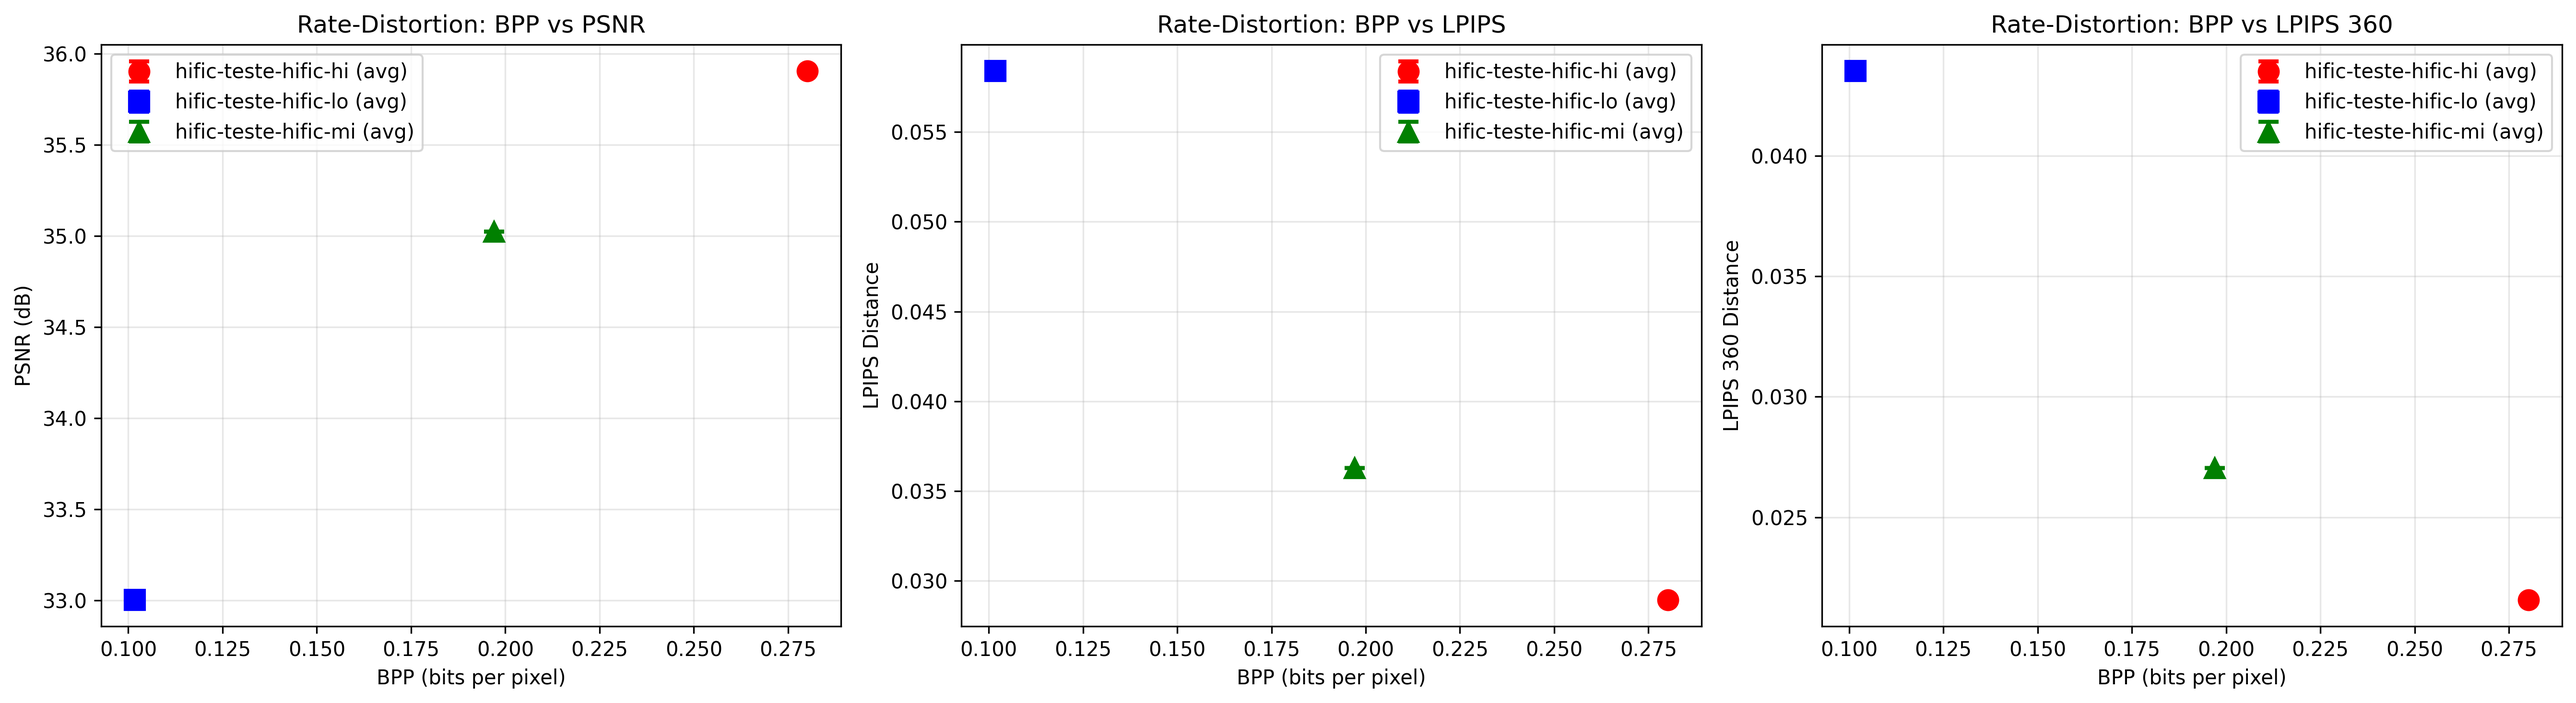
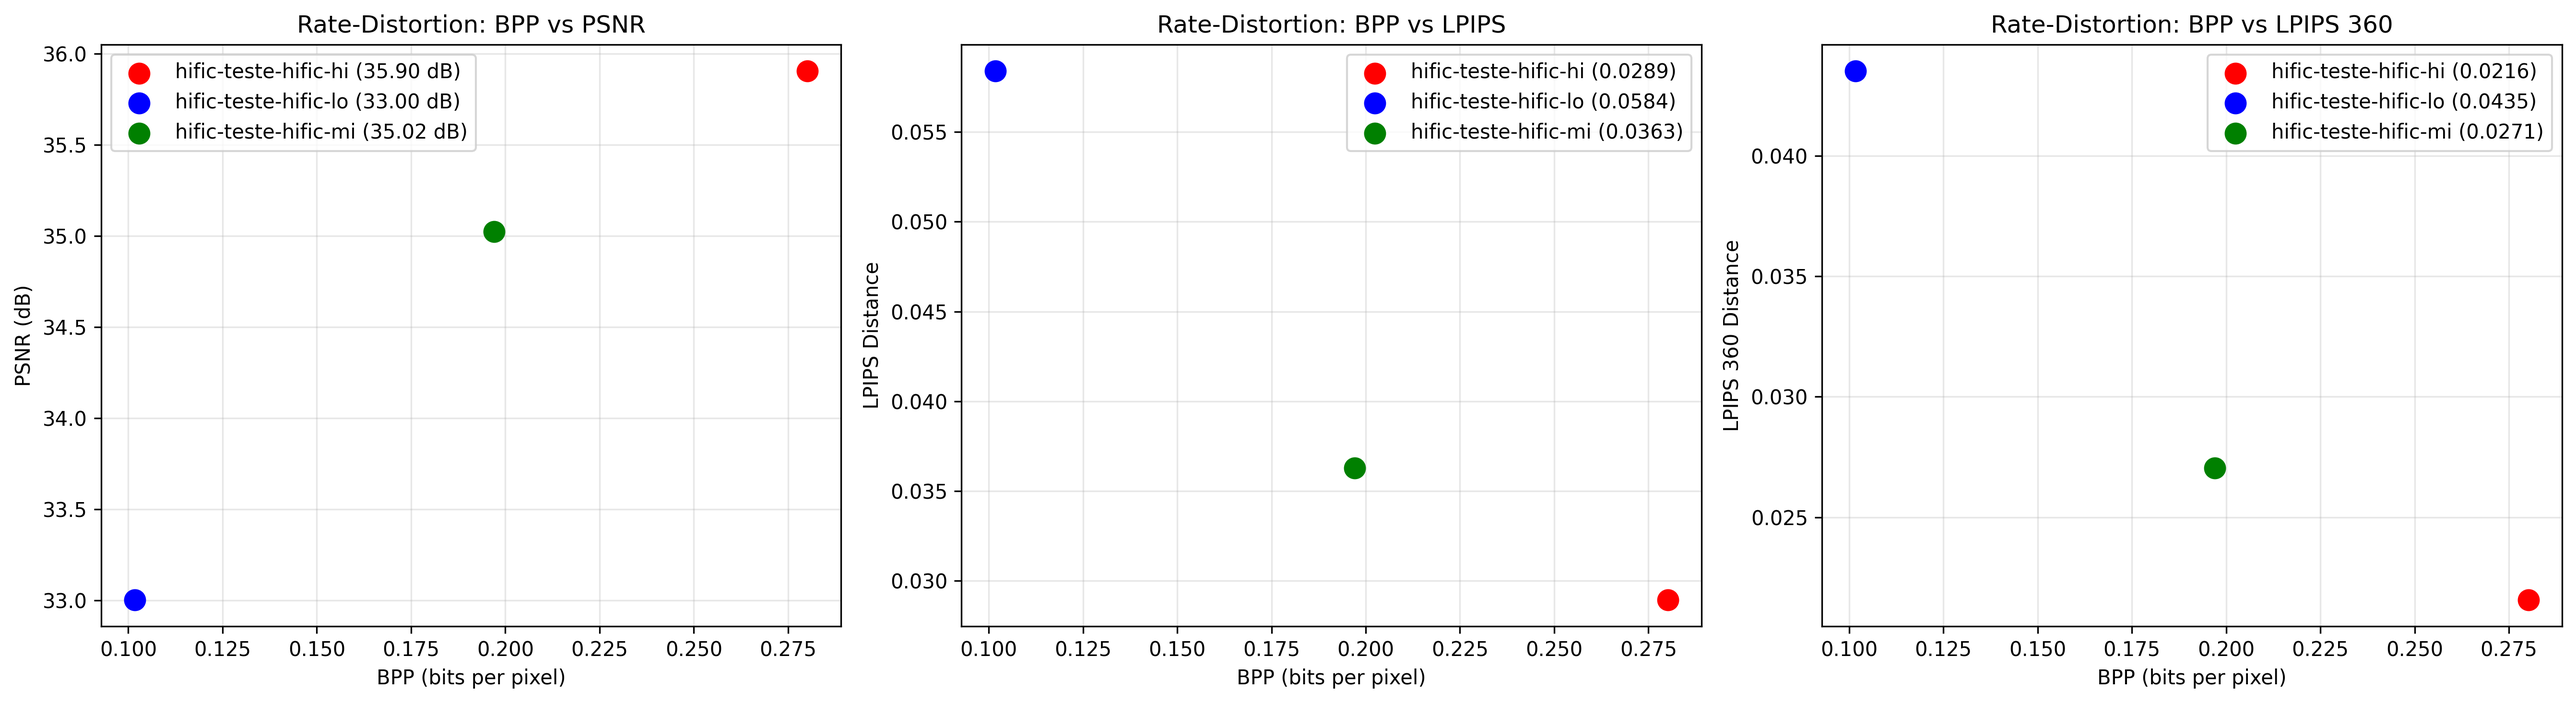
ajustes nos graficos

diff --git a/HiFiC360/models/compression_analysis.py b/HiFiC360/models/compression_analysis.py
@@ -154,7 +154,7 @@ class LPIPSCalculator:
         try:
             # Força CPU se use_gpu=False, ou detecta GPU se use_gpu=True
             if not self.use_gpu:
-                print("💻 Forçando uso de CPU...")
+                print("Forçando uso de CPU...")
                 # Desabilita completamente a GPU
                 import os
                 os.environ['CUDA_VISIBLE_DEVICES'] = ''
@@ -168,14 +168,14 @@ class LPIPSCalculator:
                 actual_use_gpu = gpu_available
                 
                 if actual_use_gpu:
-                    print("🚀 Inicializando LPIPS com GPU...")
+                    print("Inicializando LPIPS com GPU...")
                     # Configuração otimizada para GPU
                     config = tf.ConfigProto()
                     config.gpu_options.allow_growth = True
                     config.gpu_options.per_process_gpu_memory_fraction = 0.7
                     config.allow_soft_placement = True
                 else:
-                    print("💻 GPU não disponível, usando CPU...")
+                    print("GPU não disponível, usando CPU...")
                     # Configuração para CPU
                     config = tf.ConfigProto()
                     config.allow_soft_placement = True
@@ -198,14 +198,14 @@ class LPIPSCalculator:
             self._initialized = True
             self.use_gpu = actual_use_gpu  # Atualiza o estado real
             device_type = "GPU" if actual_use_gpu else "CPU"
-            print(f"✅ LPIPS inicializado com sucesso ({device_type})")
+            print(f"LPIPS inicializado com sucesso ({device_type})")
             return True
             
         except Exception as e:
-            print(f"❌ Erro inicializando LPIPS: {e}")
+            print(f"Erro inicializando LPIPS: {e}")
             # Tenta fallback para CPU se falhou com GPU
             if self.use_gpu:
-                print("🔄 Tentando fallback para CPU...")
+                print("Tentando fallback para CPU...")
                 self.use_gpu = False
                 tf.reset_default_graph()
                 return self._initialize()
@@ -277,7 +277,7 @@ class LPIPS360Calculator:
         try:
             # Força CPU se use_gpu=False, ou detecta GPU se use_gpu=True
             if not self.use_gpu:
-                print("💻 Forçando uso de CPU para LPIPS 360...")
+                print("Forçando uso de CPU para LPIPS 360...")
                 # Desabilita completamente a GPU
                 import os
                 os.environ['CUDA_VISIBLE_DEVICES'] = ''
@@ -291,14 +291,14 @@ class LPIPS360Calculator:
                 actual_use_gpu = gpu_available
                 
                 if actual_use_gpu:
-                    print("🚀 Inicializando LPIPS 360 com GPU...")
+                    print("Inicializando LPIPS 360 com GPU...")
                     # Configuração otimizada para GPU
                     config = tf.ConfigProto()
                     config.gpu_options.allow_growth = True
                     config.gpu_options.per_process_gpu_memory_fraction = 0.7
                     config.allow_soft_placement = True
                 else:
-                    print("💻 GPU não disponível, usando CPU para LPIPS 360...")
+                    print("GPU não disponível, usando CPU para LPIPS 360...")
                     # Configuração para CPU
                     config = tf.ConfigProto()
                     config.allow_soft_placement = True
@@ -328,18 +328,18 @@ class LPIPS360Calculator:
                 self._initialized = True
                 self.use_gpu = actual_use_gpu
                 device_type = "GPU" if actual_use_gpu else "CPU"
-                print(f"✅ LPIPS 360 inicializado com sucesso ({device_type}) - Tipo: {self.latitude_weight_type}, Peso polar: {self.pole_weight}")
+                print(f"LPIPS 360 inicializado com sucesso ({device_type}) - Tipo: {self.latitude_weight_type}, Peso polar: {self.pole_weight}")
                 return True
                 
             except ImportError:
-                print("❌ Erro: simple_lpips360.py não encontrado.")
+                print("Erro: simple_lpips360.py não encontrado.")
                 return False
             
         except Exception as e:
-            print(f"❌ Erro inicializando LPIPS 360: {e}")
+            print(f"Erro inicializando LPIPS 360: {e}")
             # Tenta fallback para CPU se falhou com GPU
             if self.use_gpu:
-                print("🔄 Tentando fallback para CPU...")
+                print("Tentando fallback para CPU...")
                 self.use_gpu = False
                 tf.reset_default_graph()
                 return self._initialize()
@@ -658,12 +658,11 @@ def plot_compression_analysis(all_results, metrics=['psnr'], output_dir=None):
         axes = [axes]
     
     colors = ['red', 'blue', 'green', 'orange', 'purple', 'brown']
-    markers = ['o', 's', '^', 'D', 'v', '<']
     
     for idx, metric in enumerate(metrics):
         ax = axes[idx]
         
-        # Configurações específicas por métrica (movido para fora do loop)
+        # Configurações específicas por métrica
         if metric == 'psnr':
             ylabel = 'PSNR (dB)'
             title = 'Rate-Distortion: BPP vs PSNR'
@@ -682,32 +681,36 @@ def plot_compression_analysis(all_results, metrics=['psnr'], output_dir=None):
                 continue
                 
             color = colors[i % len(colors)]
-            marker = markers[i % len(markers)]
             
             bpp_mean = np.mean(result['bpp_values'])
             
             if metric == 'psnr' and result['psnr_values']:
                 metric_mean = np.mean(result['psnr_values'])
                 metric_std = np.std(result['psnr_values'])
+                metric_label = f'{result["method"]} ({metric_mean:.2f} dB)'
             elif metric == 'lpips' and result['lpips_values']:
                 metric_mean = np.mean(result['lpips_values'])
                 metric_std = np.std(result['lpips_values'])
+                metric_label = f'{result["method"]} ({metric_mean:.4f})'
             elif metric == 'lpips360' and result['lpips360_values']:
                 metric_mean = np.mean(result['lpips360_values'])
                 metric_std = np.std(result['lpips360_values'])
+                metric_label = f'{result["method"]} ({metric_mean:.4f})'
             else:
                 continue
             
-            # Plot pontos individuais
+            # Plot pontos individuais - sempre círculos com cores diferentes
             ax.scatter(result['bpp_values'], 
                       result[f'{metric}_values'],
-                      c=color, marker=marker, alpha=0.6, s=50)
+                      c=color, marker='o', alpha=0.6, s=50)
             
-            # Plot ponto médio com barra de erro
+            # Plot ponto médio com barra de erro (sem label para evitar duplicação)
             ax.errorbar(bpp_mean, metric_mean, yerr=metric_std, 
-                       fmt=marker, color=color, markersize=10, 
-                       capsize=5, capthick=2, linewidth=2,
-                       label=f'{result["method"]} (avg)')
+                       fmt='o', color=color, markersize=10, 
+                       capsize=5, capthick=2, linewidth=2)
+            
+            # Adiciona ponto para a legenda usando scatter (renderiza melhor os círculos)
+            ax.scatter([], [], c=color, marker='o', s=100, label=metric_label)
         
         ax.set_xlabel('BPP (bits per pixel)')
         ax.set_ylabel(ylabel)
@@ -752,14 +755,14 @@ def main():
     # Determina se deve usar GPU
     use_gpu = args.use_gpu and not args.force_cpu
     if args.force_cpu:
-        print("🔒 Forçando uso de CPU (GPU desabilitada)")
+        print("Forçando uso de CPU (GPU desabilitada)")
         # Desabilita GPU globalmente
         import os
         os.environ['CUDA_VISIBLE_DEVICES'] = ''
     elif use_gpu:
-        print("🚀 Tentando usar GPU se disponível")
+        print("Tentando usar GPU se disponível")
     else:
-        print("💻 Usando CPU (padrão)")
+        print("Usando CPU (padrão)")
     
     all_results = []
     
